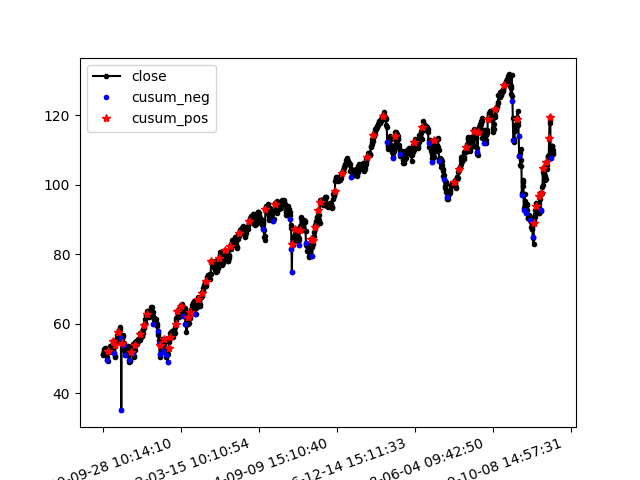
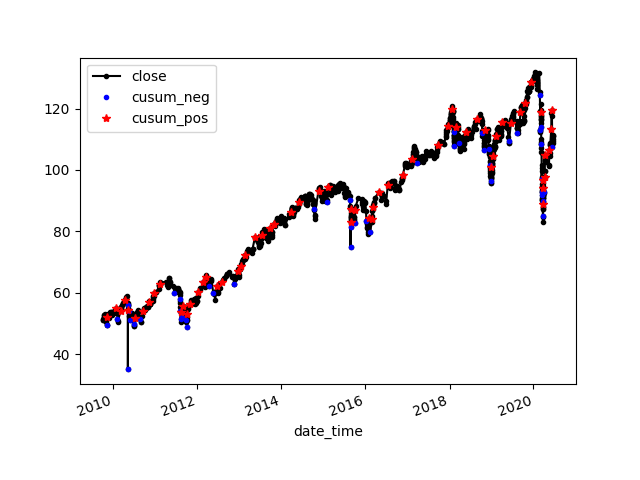
일부 수정

diff --git a/fin_ml/data_structures/imbalance_bar.py b/fin_ml/data_structures/imbalance_bar.py
@@ -28,17 +28,16 @@ def _get_exp_num_ticks(num_ticks_bar:list, num_prev_bars:int, min_max:list):
     return min(max(exp_num_ticks, _min), _max)
 
 
-def run(df:pd.DataFrame, expected_imbalance_window:int=100, num_prev_bars:int=3, expected_num_ticks:int=100, expected_num_ticks_min_max:list=[20, 200])->list:
+def run(df:pd.DataFrame, expected_imbalance_window:int=100, num_prev_bars:int=3, expected_num_ticks:int=100, expected_num_ticks_min_max:list=[20, 200])->pd.DataFrame:
     """불균형바를 구한다
-    df: 틱 데이터의 pandas.DataFrame 객체 입력
+    df:                                   틱 데이터의 pandas.DataFrame 객체 입력
+    expected_imbalance_window:            기대 불균형의 최대 윈도우 크기
+    num_prev_bars:                        E[T]의 지수가중평균을 구할 때의 window 및 span 크기
+    expected_num_ticks:
+    expected_num_ticks_min_max:           제한을 두지 않을 경우는 [0, np.inf]로 설정
     """
+
     print('(*) imbalance bar를 생성합니다.')
-    
-    # parameter - 기댓값이 작을수록 많은 bar 추출
-    # expected_imbalance_window = 100             # 기대 불균형의 최대 윈도우 크기
-    # num_prev_bars = 3                          # E[T]의 지수가중평균을 구할 때의 window 및 span 크기
-    # expected_num_ticks = 100
-    # expected_num_ticks_min_max = [20, 200]      # 제한을 두지 않을 경우는 [0, np.inf]로 설정
     
     # 바 추출 이후 초기화 되지 않을 변수들
     signs = []
@@ -65,7 +64,6 @@ def run(df:pd.DataFrame, expected_imbalance_window:int=100, num_prev_bars:int=3,
         if price > price_high: price_high = price       # high
         if price < price_low: price_low = price         # low
         price_close = price                             # close
-        # print(price_open, price_high, price_low, price_close)
         
         ## 누적 tick / dollar / volume
         cum_tick += 1
@@ -94,9 +92,8 @@ def run(df:pd.DataFrame, expected_imbalance_window:int=100, num_prev_bars:int=3,
             expected_imbalance = _get_expected_imbalance(signs, expected_num_ticks, expected_imbalance_window)
         
         ############# bar 추출 #############
-        if (np.abs(cum_theta) > expected_num_ticks * np.abs(expected_imbalance) if expected_imbalance is not None else 0):
+        if (np.abs(cum_theta) > expected_num_ticks * np.abs(expected_imbalance) if expected_imbalance is not None else False):
             #### bar 생성 ####
-            # print(f"""{np.abs(cum_theta)}/{expected_num_ticks}/{ np.abs(expected_imbalance)}/{expected_imbalance}""")
             bar_info = dict(date_time=date_time, tick_num=tick_num, open=price_open, high= price_high, low=price_low, close=price_close, 
             cum_vol=cum_volume, cum_dallar=cum_dollar)
             print(f'{tick_num}/{sample_size}\t{bar_info}')
@@ -104,8 +101,8 @@ def run(df:pd.DataFrame, expected_imbalance_window:int=100, num_prev_bars:int=3,
             num_ticks_bar.append(cum_tick)
 
             #### 기존 값 초기화 ####
-            expected_num_ticks = _get_exp_num_ticks(num_ticks_bar, num_prev_bars, expected_num_ticks_min_max)
-            expected_imbalance = _get_expected_imbalance(signs, expected_num_ticks, expected_imbalance_window)
+            expected_num_ticks = _get_exp_num_ticks(num_ticks_bar, num_prev_bars, expected_num_ticks_min_max)           # E[T]의 기대 크기
+            expected_imbalance = _get_expected_imbalance(signs, expected_num_ticks, expected_imbalance_window)          # 기대 불균형
 
             # 바 추출 이후 초기화될 변수들
             price_open = price_close = None
@@ -113,6 +110,7 @@ def run(df:pd.DataFrame, expected_imbalance_window:int=100, num_prev_bars:int=3,
             cum_theta = cum_tick = cum_dollar = cum_volume = 0
     
     df = pd.DataFrame(list_bars)
+    df['date_time'] = pd.to_datetime(df['date_time'])
     return df
 
     

diff --git a/fin_ml/tests/test_get_imbalance.py b/fin_ml/tests/test_get_imbalance.py
@@ -1,10 +1,13 @@
 import pickle
 import os.path
+from pathlib import PureWindowsPath
+
 import pandas as pd
 import matplotlib.pyplot as plt
-from pathlib import Path, PureWindowsPath
+
 from fin_ml.data_structures import imbalance_bar
 from fin_ml.utils.filters import cusum
+from fin_ml.utils.volatility import get_daily_vol
 
 
 def data_load(file_path):
@@ -15,27 +18,44 @@ def data_load(file_path):
 
 
 def test_main():
-    # 샘플 데이터 파일경로 정의
+    # # 샘플 데이터 파일경로 정의
     file_path = PureWindowsPath(os.path.dirname(__file__))
-    file_abs_path = os.path.join(file_path, '../data_samples/sp500_tick_compact.csv').replace("\\","/")
+    file_abs_path = os.path.join(file_path, '../data_samples/sp500_tick_compact100000.csv').replace("\\","/")
 
     # csv to dataframe
     df = data_load(file_abs_path)
 
     # imbalance bar 생성
-    imbalace_bar = imbalance_bar.run(df)
-    # pickle.dump(imbalace_bar, open('sp500_imbalance_bar.pickle', 'wb'))
-    # imbalace_bar = pickle.load(open('sp500_imbalance_bar.pickle', 'rb'))
+    _imbalance_bars = imbalance_bar.run(df)
+    # pickle.dump(_imbalance_bars, open('sp500_imbalance_bar.pickle', 'wb'))
+    # _imbalance_bars = pickle.load(open('sp500_imbalance_bar.pickle', 'rb'))
+
+    # 일일 변동성을 구한다.
+    _close = _imbalance_bars[['date_time', 'close']].set_index('date_time')
+    daily_vol = get_daily_vol(_close['close'])
 
     # cusum filter -> 수익률 기준으로 임계치를 초과할 때마다 샘플을 추출한다.
-    neg_events, pos_events = cusum(imbalace_bar['close'], threshold=0.05)
+    neg_events, pos_events = cusum(_imbalance_bars['close'], threshold=0.05)
 
-    
-    imbalace_bar['cusum_neg'] = imbalace_bar.iloc[neg_events]['close']
-    imbalace_bar['cusum_pos'] = imbalace_bar.iloc[pos_events]['close']
-    imbalace_bar = imbalace_bar.set_index('date_time')
+    # 샘플링된 데이터 인덱스 위치에 값을 넣는다.
+    _imbalance_bars['cusum_neg'] = _imbalance_bars.iloc[neg_events]['close']
+    _imbalance_bars['cusum_pos'] = _imbalance_bars.iloc[pos_events]['close']
 
-    imbalace_bar[['close', 'cusum_neg', 'cusum_pos']].plot(style=['.-', '.', '*'], color=['black', 'blue', 'red'], rot=20)
+    # 날짜 필드를 인덱스 필드로 지정
+    _imbalance_bars = _imbalance_bars.set_index('date_time')
+
+    # 시각화 파라미터 지정
+    _imbalance_bars[['close', 'cusum_neg', 'cusum_pos']].plot(
+        style=[
+            '.-',               # close
+            '.',                # cusum_neg
+            '*'],               # cusum_pos
+        color=[
+            'black',            # close
+            'blue',             # cusum_neg
+            'red'],             # cusum_pos
+        rot=20                  # 텍스트 출력 시 기울기 지정
+    )
     plt.savefig('sp500_imbalance_bar.png')
     plt.show()
 

diff --git a/fin_ml/utils/ewm.py b/fin_ml/utils/ewm.py
@@ -1,6 +1,6 @@
+import numpy as np
 
-
-
+#pd.ewm().mean()
 def ewm_mean(data:list, span:int):
     """pandas.ewm의 adjust=True 옵션 방식 구현
     (참고 : https://pandas.pydata.org/pandas-docs/stable/reference/api/pandas.DataFrame.ewm.html)
@@ -25,6 +25,8 @@ def ewm_mean(data:list, span:int):
     return _ewma
 
 
+
+#pd.ewm().std()
 def ewm_var(data:list, span:int, std:bool=False):
     """코드 참고 : https://stackoverflow.com/questions/58809786/pandas-ewm-var-and-std
     """
@@ -36,7 +38,6 @@ def ewm_var(data:list, span:int, std:bool=False):
 
     # Calculate exponential moving variance
     for i in range(0,len(data)):
-
         # Get window
         z = np.array(data[0:i+1])
 
@@ -46,7 +47,10 @@ def ewm_var(data:list, span:int, std:bool=False):
 
         # Calculate exponential moving average
         ewma = np.sum(w * z) / np.sum(w)
-        bias = np.sum(w)**2 / (np.sum(w)**2 - np.sum(w**2))
+        _base = (np.sum(w)**2 - np.sum(w**2))
+        # if _base == 0:
+        #     continue
+        bias = np.sum(w)**2 / _base
         ewmvar = bias * np.sum(w * (z - ewma)**2) / np.sum(w)
 
         # select output type 

diff --git a/fin_ml/utils/volatility.py b/fin_ml/utils/volatility.py
@@ -1,0 +1,17 @@
+import pandas as pd
+from fin_ml.utils.ewm import ewm_var
+
+
+def get_daily_vol(close, span=100):    
+    """일별 변동성을 계산한다
+    """
+    # 일별 거래량, 종가에 따라 재인덱싱
+    df = close.index.searchsorted(close.index - pd.Timedelta(days=1))
+    df = df[df > 0]
+    df = (pd.Series(close.index[df - 1], index=close.index[close.shape[0] - df.shape[0]:]))
+
+    df = close.loc[df.index] / close.loc[df.array].array - 1  # daily returns
+    # df = ewm_var(df, span=span, std=True)
+    df = df.ewm(span=span).std()
+    return df
+

diff --git a/test.py b/test.py
@@ -1,4 +1,6 @@
+import sys
 import fin_ml
 from fin_ml.tests import test_get_imbalance
 
+sys.path        # <-참조하게될 패키시 경로 순위 참고
 test_get_imbalance.test_main()
